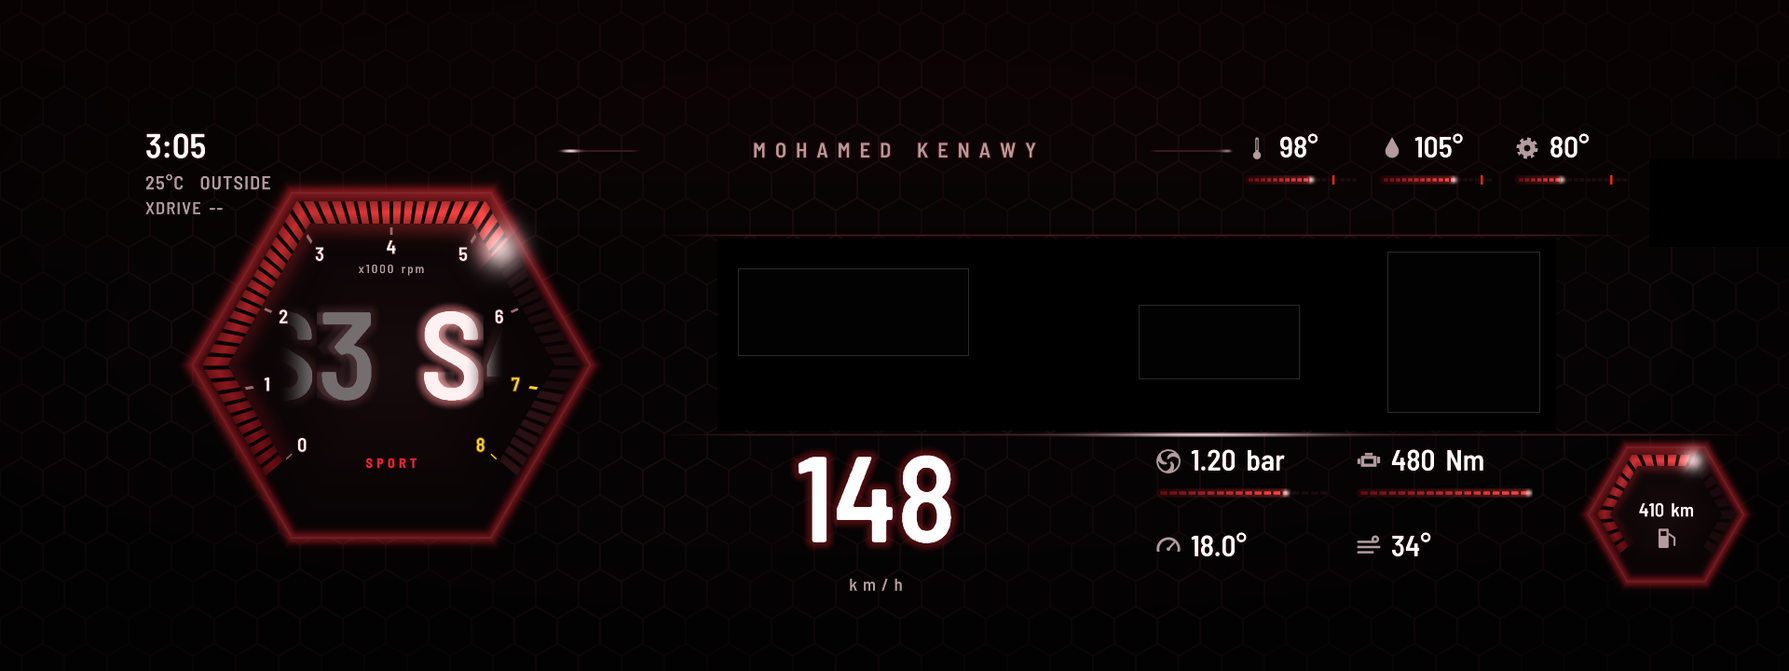
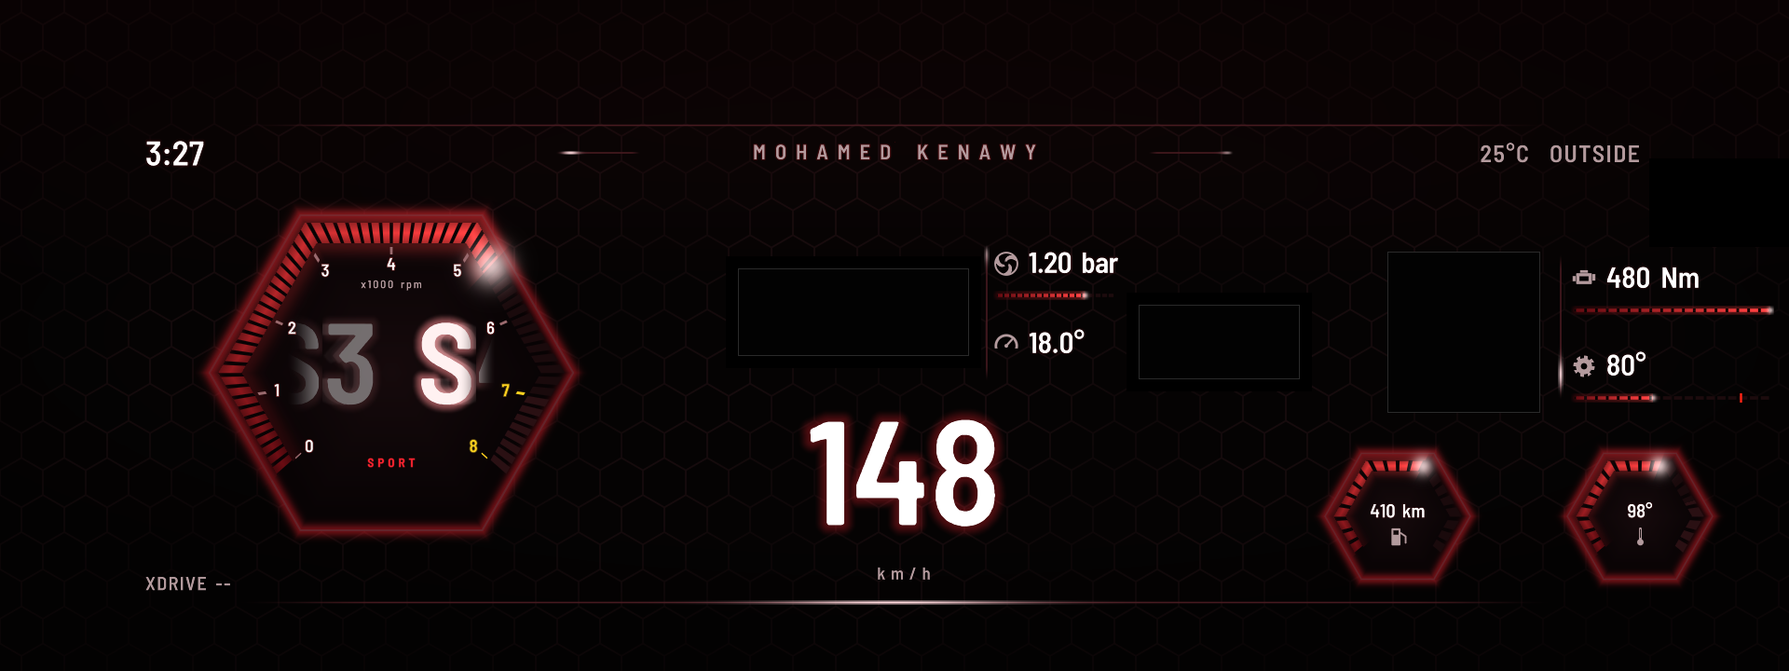
Cluster Layouts 0.18.0: the cockpit built round the car's measured boxes
The owner's calibration photo (0.17.1 grid) pinned his KOMBI's boxes:
exactly the two upstream M_BOXES rectangles, in every drive mode, and no
gear bracket. Toro is now ONE arrangement whatever the mode or the Boxes
setting - only the colours change: the tach hexagon left, the speed huge
in the middle under the boxes (pure black laid exactly on them, all else
used), boost and timing in the gap between them, torque and the gearbox
right of them, and the owner's two gauges - fuel (pump, red on the
reserve) and coolant (red zone at the hot end) - as small hexagons of
the same family. The bracket's zone stays non-critical bare weave.

diff --git a/apps/cluster_layouts/layout_toro.js b/apps/cluster_layouts/layout_toro.js
@@ -1,24 +1,33 @@
 'use strict';
 /**
- * layout_toro.js - "Toro": a supercar cockpit in the spirit of the newest Italian V12 clusters, drawn as an
- * original design (no maker's marks or names). One arrangement in every drive mode - only the colours change
- * with it (amber in COMFORT, red in SPORT, green in ECO PRO / ELECTRIC) - built so the KOMBI's boxes never
- * touch a reading: the middle band (x 770-1670, y 256-462) is a framed pure-black blade the boxes vanish into
- * (they are drawn ABOVE every app, so black underneath is the only thing that hides them).
+ * layout_toro.js - "Toro": the owner's cockpit, an original design (no maker's marks or names). ONE arrangement
+ * in every drive mode - only the colours change with it (amber in COMFORT, red in SPORT, green in ECO PRO /
+ * ELECTRIC) - built round the TWO boxes his KOMBI actually draws over every app, measured with the calibration
+ * grid (0.17.1) on his G05 xDrive40i, 2026-11-09: one over cell 1 reaching into 4, one on the 2/3/5/6 corner.
+ * Pure black is laid exactly under those two (they vanish into it) and everything else is used.
  *
- * A dark hexagonal carbon weave dresses the panel (HEXPAT, one layer; pure black laid exactly under the KOMBI's
- * boxes), a framed edge with travelling glints, and the owner's name as a small nameplate in the header
- * (intro.js NAME). The tach is a big flat-top HEXAGON with an instrument face (HEXLINE), a segmented ring
- * (HEXBAND: rim-lit edges, minor ticks, numerals with a soft halo inside on the hexagon's own edges, a bright
- * blade at the reading), the gear huge in the centre (a change slides the new gear in with a streak while the
- * old slides out: engine.js kick) and the drive mode in a lit pill. The fuel is a small hexagon gauge of the
- * same family with the pump icon in it, turning red on the reserve. Every other reading is a tile with an
- * expressive icon and a slim bar: coolant, oil, gearbox, boost and torque (petrol / diesel) or charge and power
- * (plug-in hybrid), timing or electric range, intake air or the battery's temperature. The welcome (intro.js)
- * and the rev alarm (alarm.js) are on; the alarm turns the hexagon red and its pill reads SHIFT.
+ * A dark hexagonal carbon weave dresses the panel (HEXPAT), a framed edge with travelling glints, the owner's
+ * name as a nameplate in the header. The tach is a big flat-top HEXAGON on the left: an instrument face
+ * (HEXLINE), a rim-lit segmented ring with the numerals inside on its own edges and a bright blade at the
+ * reading (HEXBAND), the gear huge in the centre (a change slides the new gear in with a streak: engine.js
+ * kick), the drive mode in a lit pill. The digital speed stands huge in the middle under the boxes, a column of
+ * icon tiles fills the gap between them, more tiles sit right of them, and TWO SMALL GAUGES of the same hexagon
+ * family carry the fuel (the pump, red on the reserve) and the coolant (the thermometer, its red zone at the
+ * hot end) - the owner's two must-haves. The welcome (intro.js) and the rev alarm (alarm.js) are on; the alarm
+ * turns the tach red and its pill reads SHIFT.
  */
 const C = require('./layout_common');
 const alarm = require('./alarm');
+
+/*
+ * The KOMBI's two boxes on this car, from the owner's calibration photo (Settings > Band grid): the numbers his
+ * boxes hid, mapped back to the grid's cells, land on the same rectangles the upstream repo measured as
+ * M_BOXES - box A over cell 1 into 4, box B small on the 2/3/5/6 corner - and nothing else (the gear bracket
+ * right of centre did NOT show on his photo; its zone x 1490-1652, y 271-442 is left as bare weave, nothing
+ * critical in it, in case it comes back in some state).
+ */
+const BOX_A = { x: 779, y: 275, w: 274, h: 120 };    /* 793-1039, 289-381 + margin */
+const BOX_B = { x: 1209, y: 314, w: 199, h: 106 };   /* 1223-1394, 328-406 + margin */
 
 const PALETTES = {
     // arancio: amber on black carbon
@@ -55,10 +64,9 @@ const evTxt = (t) => ({ color: [t.ev, 1], glow: [t.ev, 0.3] });
 const kwNow = (d) => (C.isNum(d.kw) ? d.kw : 0);
 const hot = (o) => (d) => alarm.over(o, d);
 
-/* ---------- the dressing: the carbon weave, the frame, the glow ---------- */
+/* ---------- the dressing ---------- */
 
-/** The carbon weave over the given rectangles (the pattern continuous: u_org), with pure black laid exactly on
- * the KOMBI's boxes (holes): they sit above the panel and vanish into it. */
+/** The carbon weave (the pattern continuous: u_org), with pure black laid exactly on the KOMBI's boxes. */
 function carbon(rects, holes) {
     return rects.map((r, i) => ({
         key: 'bg' + i, kind: 'hexpat', x: r.x, y: r.y, w: r.w, h: r.h,
@@ -68,15 +76,8 @@ function carbon(rects, holes) {
 }
 const glint = (key, x, y, w, h, phase) => ({ key, kind: 'glint', x, y, w, h,
     params: { u_line: [1.6, 0.22, 0.09, phase || 0], u_fade: [0.12] }, colors: (t) => ({ color: [t.rule, 1], glint: t.glint }) });
-const seg = (key, ax, ay, bx, by) => {
-    const pad = 14;
-    const x = Math.floor(Math.min(ax, bx) - pad), y = Math.floor(Math.min(ay, by) - pad);
-    return { key, kind: 'seg', x, y, w: Math.ceil(Math.max(ax, bx) + pad) - x, h: Math.ceil(Math.max(ay, by) + pad) - y,
-        params: { u_seg: [ax - x, ay - y, bx - x, by - y], u_w: [2, 6] }, colors: (t) => ({ color: [t.hexEdge, 1], glow: [t.accent, 0.3] }) };
-};
 const aura = (o, key, x, y, w, h) => ({ key, kind: 'aura', x, y, w, h, params: { u_aura: [0.3, 5] }, colors: (t) => ({ color: t.aura }),
     value: (d) => (C.isNum(d.speed) ? Math.min(1, C.speedIn(o, d.speed) / C.speedScale(o).max * 1.6) : 0), max: 1 });
-/* the owner's name (intro.js NAME), drawn into the cluster as a small nameplate */
 const NAME = require('./intro').NAME;
 const nameC = (t) => ({ color: [t.dim, 1], glow: [t.accent, 0.35] });
 function namePlate(x, y, w, h, lines) {
@@ -87,7 +88,6 @@ function namePlate(x, y, w, h, lines) {
 
 /* ---------- the hexagon gauges ---------- */
 
-/** The hexagon's layer: wide enough for the pointy sides, no taller than the ring needs. */
 const hexBox = (cx, cy, R, T) => {
     const hx = Math.ceil((R + T * 0.5 + 24) / 0.8660254), hy = R + Math.round(T * 0.5) + 30;
     return { x: cx - hx, y: cy - hy, w: hx * 2, h: hy * 2, hx, hy };
@@ -95,8 +95,8 @@ const hexBox = (cx, cy, R, T) => {
 const faceC = (isHot) => (t, d) => ({ color: [isHot && isHot(d) ? t.red : t.hexEdge, 1], glow: isHot && isHot(d) ? t.red : t.accent,
     face0: [t.faceTop, 1], face1: [t.faceBot, 1] });
 
-/** The tach: the instrument face and bezel, the rim-lit segmented ring (red while the rev alarm is on), the
- * gear with its change animation, the x1000 label and the mode pill (SHIFT while the alarm is on). */
+/** The tach: the face and bezel, the rim-lit segmented ring (red while the rev alarm is on), the gear with its
+ * change animation, the x1000 label and the mode pill (SHIFT while the alarm is on). */
 function hexTach(o, cx, cy, R, T) {
     const isHot = hot(o);
     const s = C.rpmScale(o);
@@ -129,34 +129,39 @@ function hexTach(o, cx, cy, R, T) {
     ];
 }
 
-const fuelFrac = (d) => (C.isNum(d.fuelPct) ? d.fuelPct / 100 : 0);
-const fuelLow = (d) => C.isNum(d.fuelPct) && d.fuelPct < 12;
-/** The fuel gauge: a small hexagon of the same family - the face, a segmented ring filled with the tank (red on
- * the reserve), the range in the middle and the pump under it. */
-function fuelHex(o, cx, cy, R, T) {
+/** A small gauge of the same family: the face and bezel, a segmented ring for value 0..1 (its red zone at
+ * redFrom, 2: none), a reading in the middle and its icon under it. */
+function miniHex(key, cx, cy, R, T, value, redFrom, text, textC, ic, ringC) {
     const b = hexBox(cx, cy, R, T);
     return [
-        { key: 'fuelBezel', kind: 'hexline', x: b.x, y: b.y, w: b.w, h: b.h,
-            params: { u_hex: [b.hx, b.hy, R + T * 0.5 + 8, 1.5], u_soft: [6] }, colors: faceC(fuelLow) },
+        { key: key + 'Bezel', kind: 'hexline', x: b.x, y: b.y, w: b.w, h: b.h,
+            params: { u_hex: [b.hx, b.hy, R + T * 0.5 + 8, 1.5], u_soft: [6] }, colors: faceC(null) },
         {
-            key: 'fuelHex', kind: 'hexband', x: b.x, y: b.y, w: b.w, h: b.h,
-            params: { u_geo: [b.hx, b.hy, R, T], u_span: [-132, 132, 22, 0.3], u_marks: [0, 0, 0, 0], u_red: [2] },
-            colors: (t, d) => (fuelLow(d) ? { track: t.track, fill0: '#6b0a08', fill1: t.red, redc: t.redc, tip: '#ffd9d0', tick: t.tick, num: t.num }
-                : { track: t.track, fill0: t.fill0, fill1: t.fill1, redc: t.redc, tip: t.tip, tick: t.tick, num: t.num }),
-            value: fuelFrac, max: 1, sweep: true,
+            key: key + 'Hex', kind: 'hexband', x: b.x, y: b.y, w: b.w, h: b.h,
+            params: { u_geo: [b.hx, b.hy, R, T], u_span: [-132, 132, 20, 0.3], u_marks: [0, 0, 0, 0], u_red: [redFrom] },
+            colors: ringC, value, max: 1, sweep: true,
         },
-        C.text('fuel', cx - Math.round(R * 0.8), cy - Math.round(R * 0.26), Math.round(R * 1.6), Math.round(R * 0.38),
-            (d) => C.distText(o, d.frange), (t, d) => (fuelLow(d) ? { color: [t.red, 1], glow: [t.red, 0.5] } : txt(t))),
-        icon('fuelIcon', cx - Math.round(R * 0.22), cy + Math.round(R * 0.2), Math.round(R * 0.44), 4),
+        C.text(key, cx - Math.round(R * 0.8), cy - Math.round(R * 0.3), Math.round(R * 1.6), Math.round(R * 0.4), text, textC),
+        icon(key + 'Icon', cx - Math.round(R * 0.21), cy + Math.round(R * 0.18), Math.round(R * 0.42), ic),
     ];
 }
+const fuelFrac = (d) => (C.isNum(d.fuelPct) ? d.fuelPct / 100 : 0);
+const fuelLow = (d) => C.isNum(d.fuelPct) && d.fuelPct < 12;
+/** The fuel gauge: filled with the tank, red on the reserve, the range and the pump in it. */
+const fuelHex = (o, cx, cy, R, T) => miniHex('fuel', cx, cy, R, T, fuelFrac, 2,
+    (d) => C.distText(o, d.frange), (t, d) => (fuelLow(d) ? { color: [t.red, 1], glow: [t.red, 0.5] } : txt(t)), 4,
+    (t, d) => (fuelLow(d) ? { track: t.track, fill0: '#6b0a08', fill1: t.red, redc: t.redc, tip: '#ffd9d0', tick: t.tick, num: t.num }
+        : { track: t.track, fill0: t.fill0, fill1: t.fill1, redc: t.redc, tip: t.tip, tick: t.tick, num: t.num }));
+/** The coolant gauge: 40-140 °C on the ring, its red zone at the hot end, the reading and the thermometer. */
+const heatHex = (o, cx, cy, R, T) => miniHex('coolant', cx, cy, R, T, (d) => C.tempFrac(d.coolant), 0.78,
+    (d) => C.tempText(o, d.coolant), (t, d) => ({ color: [C.isNum(d.coolant) && d.coolant >= 118 ? t.red : t.text, 1], glow: [t.accent, 0.12] }), 0,
+    (t) => ({ track: t.track, fill0: t.fill0, fill1: t.fill1, redc: t.redc, tip: t.tip, tick: t.tick, num: t.num }));
 
-/* ---------- the readings: tiles with expressive icons ---------- */
+/* ---------- the tiles ---------- */
 
 function icon(key, x, y, size, id) {
     return { key, kind: 'icon', x, y, w: size, h: size, params: { u_icon: [id], u_line: [0] }, colors: (t) => ({ color: [t.dim, 1] }) };
 }
-/** A slim segmented bar (hot mark at red 0..1; 2: none). */
 function slim(key, x, y, w, h, value, red, colours) {
     const b = C.bar(key, x, y, w, h, value, colours || ((t) => ({ track: t.track, fill0: t.fill0, fill1: t.fill1, redc: t.red, tip: t.tip, tick: t.dim, num: t.num })), 18);
     b.params = Object.assign({}, b.params, { u_red: [red === undefined ? 2 : red] });
@@ -185,19 +190,10 @@ const r2Of = (o) => (C.engineFocus(o)
 const r3Of = (o) => (C.engineFocus(o)
     ? { v: C.timingText, ic: 13, c: txt, f: undefined }
     : { v: (d) => C.erangeText(o, d), ic: 6, c: evTxt, f: C.focus.bar(o) });
-/** The intake air (the air) or the battery's temperature (the thermometer). */
-const t2Of = (o) => (C.engineFocus(o)
-    ? { v: (d) => C.tempText(o, d.iat), ic: 3 } : { v: (d) => C.tempText(o, d.battTemp), ic: 0 });
 const hotTemp = (which, redC) => (t, d) => ({ color: [C.isNum(d[which]) && d[which] >= redC ? t.red : t.text, 1], glow: [t.accent, 0.1] });
 const tempTile = (o, key, which, ic, x, y, w, redC) =>
     tile(key, ic, x, y, w, (d) => C.tempText(o, d[which]), hotTemp(which, redC), (d) => C.tempFrac(d[which]), (redC - 40) / 100);
-const temps = (o, x, gap, y, w) => [].concat(
-    tempTile(o, 'coolant', 'coolant', 0, x, y, w, 118),
-    tempTile(o, 'oil', 'oil', 1, x + gap, y, w, 130),
-    tempTile(o, 'gbox', 'gearbox', 2, x + gap * 2, y, w, 125));
 const speedDigits = (o, x, y, w, h, align) => C.text('speedDigits', x, y, w, h, (d) => C.speedText(o, d), big, { align: align === undefined ? 0.5 : align });
-const outsideTile = (o, x, y, w) => [C.text('outside', x, y, w, 34, (d) => C.outsideText(o, d.outside), txt, { align: 0 }),
-    C.text('outsideLbl', x, y + 38, w, 13, 'OUTSIDE', lbl, { align: 0, tracking: 0.14 })];
 const HOLES = [C.GEARBOX_HOLE, C.EDRIVE_HOLE];
 
 module.exports = require('./intro').withIntro(alarm.withAlarm({
@@ -208,36 +204,47 @@ module.exports = require('./intro').withIntro(alarm.withAlarm({
     needs: ['gearbox', 'splitRear', 'iat'],
 
     /*
-     * Built around what the glass and the KOMBI keep (layout_common; checked by tools/clearance.js): the hexagon
-     * under the camera's cowl and above the warning lights, pure black exactly under the KOMBI's boxes - and,
-     * with the boxes up (Boxes Always, the default here, or Auto in a SPORT mode), the whole middle band.
+     * One arrangement whatever the drive mode and the Boxes setting (the owner's ask): built round his two
+     * measured boxes, checked by tools/clearance.js against the M holes and the glass like every layout.
      */
     pieces(o) {
         if (o.bandGrid && o.centre !== 'map' && o.centre !== 'stock') return gridLayout(o);
         if (o.centre === 'map') return mapLayout(o);
         if (o.centre === 'stock') return stockLayout(o);
-        if (C.mCar(o)) return boxesLayout(o);
-        const r1 = r1Of(o), r2 = r2Of(o), r3 = r3Of(o);
-        return carbon([{ x: 0, y: 0, w: 1920, h: 720 }], HOLES).concat([
-            aura(o, 'aura', 660, 140, 600, 500),
-            glint('frameT', 250, 140, 1420, 5, 0), glint('frameB', 250, 644, 1420, 5, 0.5),
-            seg('cornTL', 250, 142, 190, 212), seg('cornTR', 1670, 142, 1730, 212),
-        ], namePlate(710, 150, 500, 20, false), hexTach(o, 960, 390, 186, 26), [
-            C.text('clock', 160, 152, 200, 38, C.clock, txt, { align: 0 }),
-            speedDigits(o, 150, 212, 490, 168, 1),
-            C.text('speedUnit', 440, 388, 200, 22, C.speedUnit(o), lbl, { align: 1, tracking: 0.3 }),
-        ], fuelHex(o, 292, 532, 72, 15),
-        tile('r1', r1.ic, 460, 470, 180, r1.v, r1.c, r1.f, undefined, r1.c2),
-        tempTile(o, 'coolant', 'coolant', 0, 1250, 170, 142, 118),
-        tempTile(o, 'oil', 'oil', 1, 1250, 300, 142, 130),
-        tempTile(o, 'gbox', 'gearbox', 2, 1250, 430, 142, 125),
-        [C.text('split', 1250, 560, 400, 24, C.splitText, lbl, { align: 0, tracking: 0.08 })],
-        tile('r2', r2.ic, 1676, 286, 224, r2.v, r2.c, r2.f, undefined, r2.c2),
-        outsideTile(o, 1714, 420, 190),
-        tile('r3', r3.ic, 1676, 540, 224, r3.v, r3.c, r3.f, undefined, evBar));
+        return cockpit(o);
     },
 }));
 
+/*
+ * The cockpit: the tach left; the speed huge in the middle under the boxes; a column of tiles in the gap
+ * between box A and box B (x 1056-1206); more tiles right of box B (x 1680+, under the eDrive box); the fuel
+ * and coolant gauges along the bottom right; the header with the time, the nameplate and the outside. The zone
+ * x 1490-1652, y 271-442 (the stock gear bracket's, absent on this car's photo) holds nothing critical.
+ */
+function cockpit(o) {
+    const r1 = r1Of(o), r2 = r2Of(o), r3 = r3Of(o);
+    return carbon([{ x: 0, y: 0, w: 1920, h: 720 }], [BOX_A, BOX_B, C.EDRIVE_HOLE]).concat([
+        aura(o, 'aura', 720, 404, 480, 236),
+        glint('frameT', 250, 132, 1420, 5, 0), glint('frameB', 250, 644, 1420, 5, 0.5),
+        C.text('clock', 156, 146, 200, 40, C.clock, txt, { align: 0 }),
+        C.text('outside', 1480, 152, 280, 28, (d) => C.outsideText(o, d.outside) + '  OUTSIDE', lbl, { align: 1, tracking: 0.05 }),
+    ], namePlate(700, 152, 520, 24, true), hexTach(o, 420, 400, 150, 22), [
+        // the speed, huge, under the boxes
+        speedDigits(o, 740, 428, 460, 172),
+        C.text('speedUnit', 740, 606, 460, 20, C.speedUnit(o), lbl, { tracking: 0.3 }),
+        // the split, small, under the tach's side
+        C.text('split', 156, 616, 420, 22, C.splitText, lbl, { align: 0, tracking: 0.06 }),
+        glint('vSep1', 1056, 262, 6, 148, 0.2), glint('vSep2', 1672, 272, 6, 158, 0.7),
+    ],
+    // the column between the boxes, and the column right of them
+    tile('r1', r1.ic, 1066, 266, 134, r1.v, r1.c, r1.f, undefined, r1.c2),
+    tile('r3', r3.ic, 1066, 352, 134, r3.v, r3.c, r3.f, undefined, evBar),
+    tile('r2', r2.ic, 1686, 282, 218, r2.v, r2.c, r2.f, undefined, r2.c2),
+    tempTile(o, 'gbox', 'gearbox', 2, 1686, 376, 218, 125),
+    // the owner's two gauges: the fuel and the coolant
+    fuelHex(o, 1500, 554, 54, 11),
+    heatHex(o, 1760, 554, 54, 11));
+}
 
 /*
  * The calibration grid (Settings > Band grid): the middle band divided into six numbered cells, 1-3 across the
@@ -269,35 +276,6 @@ function gridLayout(o) {
 }
 
 /*
- * The main arrangement (Boxes Always, the default - the KOMBI's boxes are up in every mode on this car; or Auto
- * in a SPORT mode): the middle band is a framed pure-black blade the boxes vanish into. The hexagon tach left of
- * it, the speed under it, the header above it with the nameplate, the fuel gauge and the tiles along the bottom.
- */
-function boxesLayout(o) {
-    const BAND = { x: 770, y: 256, w: 900, h: 206 };
-    const r1 = r1Of(o), r2 = r2Of(o), r3 = r3Of(o), t2 = t2Of(o);
-    return carbon([{ x: 0, y: 0, w: 1920, h: 720 }], [C.EDRIVE_HOLE]).concat([
-        C.flat('bgBand', BAND.x, BAND.y, BAND.w, BAND.h, () => '#000000'),
-        glint('bandT', 690, 250, 1070, 5, 0), glint('bandB', 690, 464, 1210, 5, 0.5),   // (bandT ends before the eDrive box)
-        aura(o, 'aura', 180, 170, 480, 450),
-    ], hexTach(o, 420, 392, 164, 24),
-    // the header: the time, outside and the split left, the owner's name in the middle, the temperatures right
-    [C.text('clock', 156, 138, 180, 40, C.clock, txt, { align: 0 }),
-        C.text('outside', 156, 186, 240, 22, (d) => C.outsideText(o, d.outside) + '  OUTSIDE', lbl, { align: 0, tracking: 0.05 }),
-        C.text('split', 156, 214, 300, 20, C.splitText, lbl, { align: 0, tracking: 0.06 })],
-    namePlate(700, 150, 520, 24, true),
-    temps(o, 1335, 145, 142, 126),
-    // under the band: the speed in the middle, the tiles right of it, the fuel gauge right of the gear box
-    [speedDigits(o, 700, 470, 480, 142),
-        C.text('speedUnit', 700, 618, 480, 20, C.speedUnit(o), lbl, { tracking: 0.3 })],
-    tile('r1', r1.ic, 1240, 478, 190, r1.v, r1.c, r1.f, undefined, r1.c2),
-    tile('r2', r2.ic, 1455, 478, 190, r2.v, r2.c, r2.f, undefined, r2.c2),
-    tile('r3', r3.ic, 1240, 570, 190, r3.v, r3.c, r3.f, undefined, evBar),
-    tile('t2', t2.ic, 1455, 570, 190, t2.v, txt),
-    fuelHex(o, 1788, 552, 58, 12));
-}
-
-/*
  * The map in the centre: the weave round the map window, glinting hairlines framing it (split round the cowl
  * and the gear box), a small hexagon tach left of it with the speed and the nameplate over it, the readings
  * right of it, the split under it.
@@ -323,7 +301,9 @@ function mapLayout(o) {
     tile('r1', r1.ic, 1682, 374, 222, r1.v, r1.c, r1.f, undefined, r1.c2),
     tile('r2', r2.ic, 1682, 466, 222, r2.v, r2.c, r2.f, undefined, r2.c2),
     [C.text('split', 560, y2 + 8, 800, 24, C.splitText, lbl, { tracking: 0.1 })],
-    temps(o, 1524, 130, 560, 110));
+    tempTile(o, 'coolantT', 'coolant', 0, 1524, 560, 110, 118),
+    tempTile(o, 'oil', 'oil', 1, 1654, 560, 110, 130),
+    tempTile(o, 'gbox', 'gearbox', 2, 1784, 560, 110, 125));
 }
 
 /* The stock centre (its content between x 566 and 1104): the hexagon tach and the speed left of it, the fuel
@@ -339,11 +319,12 @@ function stockLayout(o) {
         C.text('outside', 1340, 152, 220, 24, (d) => C.outsideText(o, d.outside) + '  OUTSIDE', lbl, { align: 0, tracking: 0.05 }),
         C.text('plate', 1120, 196, 640, 15, NAME, nameC, { tracking: 0.42 }),
         glint('ruleR0', 1120, 226, 640, 6, 0.4)],
-    // (an M display's second box reaches x 1208-1415, y 313-426 here: the gauge sits below it, the split
-    // beside it, the temperatures along the bottom right)
+    // (an M display's second box reaches x 1208-1415, y 313-426 here: the gauges sit below it)
     fuelHex(o, 1210, 556, 56, 12),
     tile('r2', r2.ic, 1680, 290, 224, r2.v, r2.c, r2.f, undefined, r2.c2),
     tile('r1', r1.ic, 1680, 404, 224, r1.v, r1.c, r1.f, undefined, r1.c2),
     [C.text('split', 1450, 486, 300, 24, C.splitText, lbl, { align: 0, tracking: 0.08 })],
-    temps(o, 1340, 170, 556, 150));
+    tempTile(o, 'coolantT', 'coolant', 0, 1340, 556, 150, 118),
+    tempTile(o, 'oil', 'oil', 1, 1510, 556, 150, 130),
+    tempTile(o, 'gbox', 'gearbox', 2, 1680, 556, 150, 125));
 }

diff --git a/apps/cluster_layouts/README.md b/apps/cluster_layouts/README.md
@@ -107,55 +107,30 @@ the drive) and the drive's peak power (or boost), and the ranges and charge righ
 
 ### Toro (the default here)
 
-A supercar cockpit in the spirit of the newest Italian V12 clusters, an original design: a dark hexagonal
-carbon weave dresses the whole panel (`HEXPAT_FS`, continuous across its layers), a framed edge with travelling
-glints, and a big flat-top **hexagon** in the middle whose ring is the tach (`HEXBAND_FS`) - segmented, amber /
-red / green with the look, the red zone at its end, the numerals inside on the hexagon's own edges - with the
-gear huge in its centre and the drive mode in a lit pill under it. On a gear change the new gear slides in with
-a streak while the old one slides out and fades: the cluster plays it from one message (`engine.js` kick,
-`GEARFX_FS`). The digital speed stands large; the fuel is a small hexagon gauge
-of the same family with the pump in it, turning red on the reserve; and every other reading sits in a tile with
-an expressive icon and a slim bar - the thermometer, oil drop and gear for the temperatures, the turbo and
-engine for boost and torque (petrol / diesel) or the battery and bolt for charge and power (plug-in hybrid),
-the gauge for the timing, the air for the intake.
+The owner's cockpit, an original design. **One arrangement in every drive mode - only the colours change**
+(amber in COMFORT, red in SPORT, green in ECO PRO / ELECTRIC), built round the TWO boxes his KOMBI draws over
+every app, **measured on the car with the calibration grid** (Settings > Band grid: six numbered cells over the
+middle; the numbers a photo shows hidden are the boxes' cells). On this G05 xDrive40i they are the two the
+upstream repo calls M_BOXES - x 793-1039 y 289-381 and x 1223-1394 y 328-406 - and nothing else; pure black is
+laid exactly under them and everything else is used. The stock gear bracket's zone (x 1490-1652, y 271-442) did
+not show on his photo and holds nothing critical, in case it returns.
 
-**One arrangement in every drive mode, only the colours change** (Colours: Auto follows the mode: amber in
-COMFORT, red in SPORT, green in ECO PRO / ELECTRIC), and the owner's name sits as a small nameplate in the
-header - also under the speed with the map in the centre, and over the readings with the stock centre.
+A dark hexagonal carbon weave, a framed edge with travelling glints, the owner's nameplate in the header. The
+tach is a big flat-top hexagon with an instrument face, a rim-lit segmented ring, numerals inside on its own
+edges, a bright blade at the reading, the gear huge in its centre (a change slides the new gear in with a
+streak while the old slides out - the cluster plays it from one message) and the drive mode in a lit pill
+(SHIFT, red, while the rev alarm is on). The speed stands huge under the boxes; boost and timing (petrol /
+diesel; charge and electric range on a plug-in hybrid) fill the gap between them with their icons and bars;
+torque and the gearbox sit right of them; and the owner's two must-haves - **a small fuel gauge and a small
+coolant gauge** - are hexagons of the same family: the fuel ring filled with the tank (red on the reserve, the
+pump and the range in it), the coolant ring with its red zone at the hot end (the thermometer and the reading
+in it).
 
 ![Toro](../../docs/toro.png)
 
-| SPORT (a gear change) | ECO PRO | Map in the centre |
-|---|---|---|
-| ![](../../docs/toro_boxes.png) | ![](../../docs/toro_eco.png) | ![](../../docs/toro_map.png) |
-
-### The KOMBI's boxes, and how Toro hides them
-
-The KOMBI draws its own widgets **above** every app's panel: its gear bracket right of centre always, and - on
-this G05 xDrive40i, not only on M cars - its two sport readouts in the middle **while the drive mode is SPORT /
-SPORT INDIVIDUAL** (photos of the car confirm all three). No app can draw over them; they can only be made to
-vanish into pure black, so Toro cuts its carbon weave round every box and lays exact black under it. With
-**Boxes: Always** (the default - on the owner's car the boxes are up in COMFORT and ECO PRO too, not only in
-SPORT) the layouts keep their readings out of the middle band in every mode: the band is a framed black blade
-across the design, the hexagon left of it and the speed under it. 'Auto' moves out of the band only while a
-SPORT mode is on (cars that draw the readouts just then; the layout is redrawn when the mode changes, logged);
-'Never' is the opt-out. A stored pre-0.16 'standard' counts as Always.
-
-Truly removing the two sport readouts is the stock cluster's own business, and it offers it (verified in
-BMW's G-series iDrive 7 manuals and BimmerCode's official G05 list):
-
-- **The setting**: iDrive, CAR > Settings > Displays > **Driving mode view** off - the cluster then keeps its
-  standard view when the drive mode changes, so the sport readouts are never drawn (the widgets themselves are
-  also listed under CAR > Driving information > Sport displays). No coding, per driver profile, reversible.
-- **Coding** (BimmerCode, G05, "Headunit" HU_MGU): **Sport displays values** (`SPORT_DISPLAYS_LAYOUT`) - its
-  values include "Not active"; what box-free "custom cluster" installs typically switch off.
-- The gear bracket right of centre has no such switch: it blends into the pure black (and a stored pre-0.16
-  Boxes value of "standard" now counts as Auto, so updated cars get it handled; "Never" is the explicit opt-out).
-- The `cluster-render` service hides the stock CarPlay maneuver box by **holding its slot** with an empty scene
-  (0x105 / 0x103, verified on cars). Whether the gear bracket is slot-mapped the same way, the renderer's slot
-  report on **Signals page 2** says (photograph it in COMFORT and in SPORT INDIVIDUAL, or take the Logs file
-  from a USB stick): if it is, a small cluster-render patch (holds following the `panel` target) removes it for
-  real too.
+| SPORT (a gear change) | ECO PRO | Map in the centre | The calibration grid |
+|---|---|---|---|
+| ![](../../docs/toro_boxes.png) | ![](../../docs/toro_eco.png) | ![](../../docs/toro_map.png) | ![](../../docs/toro_grid.png) |
 
 ### The welcome (Toro)
 
